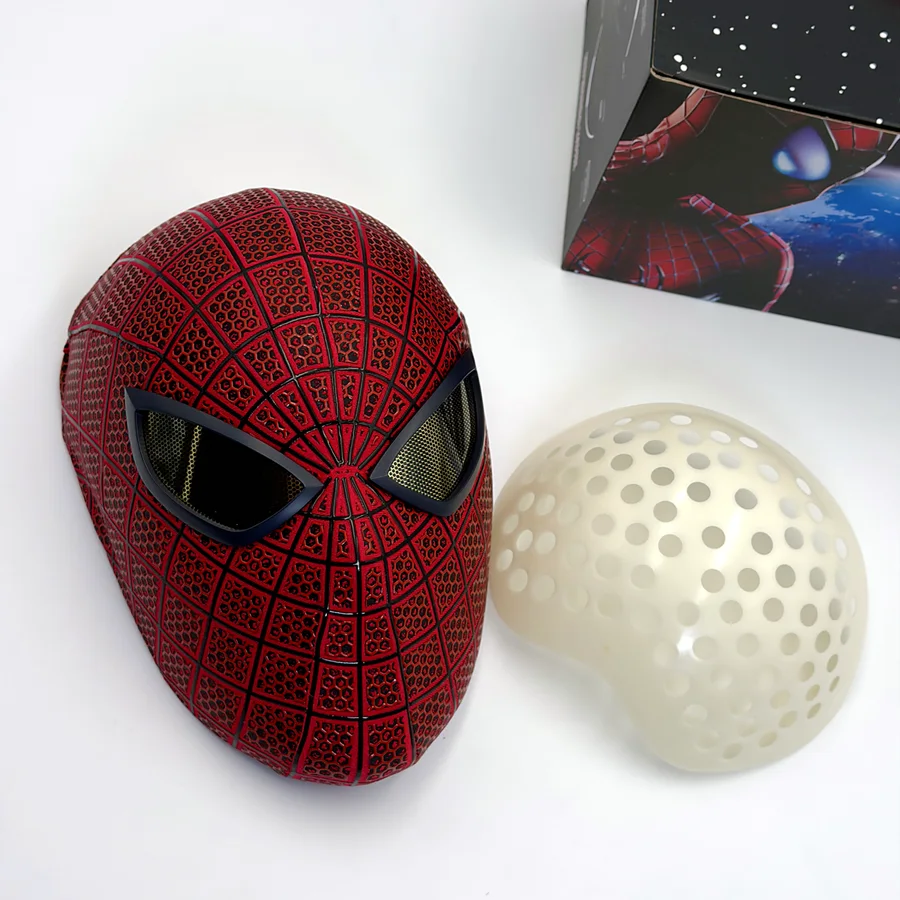
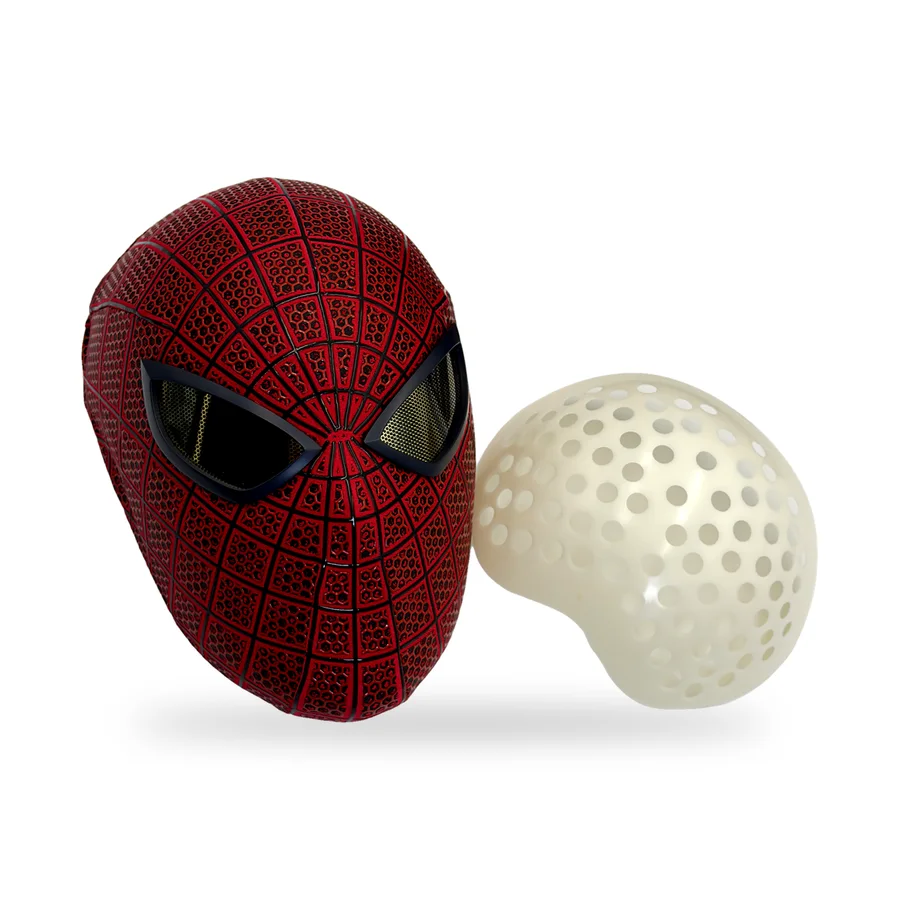
Fondo blanco uniforme y carrusel flotante (parte 1)

diff --git a/index.html b/index.html
@@ -45,7 +45,20 @@ button{font:inherit;color:inherit;cursor:pointer}
 
 /* ---------- Header ---------- */
 .top{position:sticky;top:env(safe-area-inset-top,0px);z-index:50;background:rgba(6,6,8,.86);backdrop-filter:blur(12px);-webkit-backdrop-filter:blur(12px);border-bottom:1px solid var(--line)}
-.announce{background:var(--red);color:#fff;text-align:center;font-family:var(--f-label);letter-spacing:.12em;text-transform:uppercase;font-size:.78rem;font-weight:600;padding-block:6px}
+.announce{background:#000;color:#fff;font-family:var(--f-label);letter-spacing:.12em;text-transform:uppercase;font-size:.8rem;font-weight:600;overflow:hidden;white-space:nowrap;border-bottom:2px solid var(--red);position:relative}
+.announce .track{display:inline-flex;align-items:center;animation:marq 32s linear infinite;will-change:transform}
+.announce:hover .track{animation-play-state:paused}
+.announce .grp{display:inline-flex;align-items:center;gap:22px;padding-right:22px;height:40px}
+.announce .sep{color:var(--red)}
+.announce .van{height:32px;width:auto;display:block;animation:bump .5s ease-in-out infinite alternate;filter:drop-shadow(0 3px 2px rgba(0,0,0,.6))}
+.announce .van.v2{animation-delay:.25s}
+.announce .road{display:inline-flex;align-items:flex-end;gap:2px;height:40px;padding-bottom:3px;position:relative}
+.announce .road::after{content:"";position:absolute;left:-6px;right:-6px;bottom:2px;height:2px;background:repeating-linear-gradient(90deg,#fff 0 8px,transparent 8px 14px);opacity:.35;animation:dash .6s linear infinite}
+.announce b{color:#fff;font-weight:700}
+@keyframes marq{to{transform:translateX(-50%)}}
+@keyframes bump{from{transform:translateY(0)}to{transform:translateY(-2px)}}
+@keyframes dash{to{background-position:-14px 0}}
+@media (prefers-reduced-motion:reduce){.announce .track,.announce .van,.announce .road::after{animation:none}}
 .bar{display:flex;align-items:center;gap:24px;padding-block:12px}
 .logo{display:flex;align-items:center;gap:10px;text-decoration:none;flex-shrink:0}
 .logo svg{width:38px;height:38px}
@@ -162,6 +175,25 @@ button{font:inherit;color:inherit;cursor:pointer}
 .qtone{aspect-ratio:1/1;border-radius:10px;padding:28px}
 .qtone .tn{font-size:3.2rem}
 @media (max-width:600px){.tone .tn{font-size:1.5rem}}
+
+/* Carrusel sin cuadros: Crocs flotando */
+.slide{background:none!important;border:0!important;box-shadow:none!important;overflow:visible;opacity:.28;display:flex;align-items:center;justify-content:center;cursor:pointer}
+.slide.on{opacity:1}
+.slide .spin{width:100%;transform-style:preserve-3d;animation:float 3.2s ease-in-out infinite}
+.slide .spin img{width:100%;height:auto;display:block;filter:drop-shadow(0 18px 24px rgba(0,0,0,.55));user-select:none;-webkit-user-drag:none}
+.slide.on .spin img{filter:drop-shadow(0 22px 30px rgba(229,18,47,.35)) drop-shadow(0 10px 16px rgba(0,0,0,.6))}
+.slide .spin.go{animation:spin360 1.4s cubic-bezier(.45,.05,.25,1)}
+.slide .shadow{position:absolute;left:15%;right:15%;bottom:14%;height:18px;border-radius:50%;background:radial-gradient(closest-side,rgba(0,0,0,.65),transparent);animation:shad 3.2s ease-in-out infinite}
+@keyframes float{0%,100%{transform:translateY(0)}50%{transform:translateY(-12px)}}
+@keyframes shad{0%,100%{transform:scaleX(1);opacity:.8}50%{transform:scaleX(.85);opacity:.5}}
+@keyframes spin360{from{transform:rotateY(0)}to{transform:rotateY(360deg)}}
+.feat-cap{position:relative;z-index:3;text-align:center;display:flex;flex-direction:column;align-items:center;gap:6px;padding-inline:16px;margin-top:-20px;min-height:120px}
+.feat-cap .label{color:var(--red)}
+.feat-cap h3{margin:0;font-family:var(--f-display);font-weight:900;text-transform:uppercase;font-size:clamp(1.4rem,3vw,2rem);line-height:1}
+.feat-cap .cap-row{display:flex;align-items:center;gap:16px;margin-top:4px}
+.feat-cap .tip{margin:2px 0 0;color:var(--mute);font-size:.8rem}
+@media (max-width:600px){.feat-cap h3{font-size:1.25rem;text-wrap:balance;max-width:78%}}
+@media (prefers-reduced-motion:reduce){.slide .spin,.slide .shadow{animation:none}}
 /* ---------- Trust strip ---------- */
 .trust{border-bottom:1px solid var(--line);background:var(--panel)}
 .trust .wrap{display:grid;grid-template-columns:repeat(3,minmax(0,1fr));gap:0}
@@ -275,7 +307,7 @@ footer button:hover{color:var(--fg)}
 <body>
 
 <div class="top">
-  <div class="announce">Envíos seguros a todo el Perú</div>
+  <div class="announce" role="region" aria-label="Envíos seguros a todo el Perú. Envío el mismo día o al siguiente. Provincias: Olva o Shalom. Lima: motorizado."><div class="track" aria-hidden="true"><span class="grp"><span class="road"><img class="van" src="shalom-van.webp" alt="" width="52" height="32"></span><b>Envíos seguros a todo el Perú</b><span class="sep">✦</span>Envío el mismo día o al siguiente<span class="sep">✦</span><span class="road"><img class="van v2" src="shalom-van.webp" alt="" width="52" height="32"></span>Provincias: Olva o Shalom<span class="sep">✦</span>Lima: motorizado<span class="sep">✦</span></span><span class="grp"><span class="road"><img class="van" src="shalom-van.webp" alt="" width="52" height="32"></span><b>Envíos seguros a todo el Perú</b><span class="sep">✦</span>Envío el mismo día o al siguiente<span class="sep">✦</span><span class="road"><img class="van v2" src="shalom-van.webp" alt="" width="52" height="32"></span>Provincias: Olva o Shalom<span class="sep">✦</span>Lima: motorizado<span class="sep">✦</span></span></div></div>
   <div class="wrap bar">
     <a class="logo" href="#inicio" aria-label="Spiderman Store, inicio">
       <svg viewBox="0 0 40 40" aria-hidden="true">
@@ -322,6 +354,7 @@ footer button:hover{color:var(--fg)}
     <div class="reflect"></div>
     <canvas id="shot" aria-hidden="true"></canvas>
   </div>
+  <div class="feat-cap" id="featCap" aria-live="polite"></div>
   <div class="ctrls" id="ctrls">
     <button class="arrow" id="prev" aria-label="Anterior"><svg width="18" height="18" viewBox="0 0 24 24" fill="none" stroke="currentColor" stroke-width="2.2"><path d="M15 5l-7 7 7 7"/></svg></button>
     <div class="dots" id="dots"></div>
@@ -450,45 +483,45 @@ const PRODUCTS = [
   /* ---------- CARROS ---------- */
   {id:"c1", cat:"carros", name:"Set Cars · Camión Mack y autos", price:489.95, info:"Caja de colección y bolsa de regalo", badge:"Set completo", imgs:["cars-set-1.webp","cars-set-2.webp","cars-set-3.webp","cars-set-4.webp"]},
   /* ---------- CROCS ---------- */
-  {id:"ks1", cat:"crocs", sizes:CROCS_SIZES, name:"Crocs Spider-Man · Black", price:319, info:CROCS_GIFT, badge:"Más vendido", imgs:["c-spiderman-black-1.webp", "c-spiderman-black-2.webp"]},
-  {id:"ks2", cat:"crocs", sizes:CROCS_SIZES, name:"Crocs Spider-Man · Red", price:319, info:CROCS_GIFT, badge:"Más vendido", imgs:["c-spiderman-red-3.webp", "c-spiderman-red-4.webp", "c-spiderman-red-2.webp", "c-spiderman-red-1.webp"]},
-  {id:"ks3", cat:"crocs", sizes:CROCS_SIZES, name:"Crocs Spider-Man · Marvel", price:null, imgs:["c-spiderman-marvel-1.webp", "c-spiderman-marvel-2.webp", "c-spiderman-marvel-3.webp", "c-spiderman-marvel-4.webp", "c-spiderman-marvel-5.webp"]},
-  {id:"k1", cat:"crocs", sizes:CROCS_SIZES, name:"Crocs x Cars · Rayo McQueen", price:239.9, old:280, info:CROCS_GIFT, imgs:["c-rayo-mcqueen-1.webp", "c-rayo-mcqueen-2.webp", "c-rayo-mcqueen-3.webp", "c-rayo-mcqueen-4.webp", "c-rayo-mcqueen-5.webp"]},
-  {id:"k2", cat:"crocs", sizes:CROCS_SIZES, name:"Crocs x Cars · Rayo McQueen Full Set", price:299, old:339, info:CROCS_GIFT, badge:"Con alerones y luces", imgs:["c-rayo-full-set-1.webp", "c-rayo-full-set-2.webp", "c-rayo-full-set-3.webp", "c-rayo-full-set-4.webp", "c-rayo-full-set-5.webp"]},
-  {id:"k4", cat:"crocs", sizes:CROCS_SIZES, name:"Crocs x Rayo McQueen · Kids", price:199.9, old:240, info:CROCS_GIFT, imgs:["c-rayo-mcqueen-1.webp", "c-rayo-mcqueen-2.webp", "c-rayo-mcqueen-3.webp", "c-rayo-mcqueen-4.webp", "c-rayo-mcqueen-5.webp"]},
-  {id:"k3", cat:"crocs", sizes:CROCS_SIZES, name:"Crocs x Cars · Tow Mate", price:240, old:279, info:CROCS_GIFT, imgs:["c-tow-mate-1.webp", "c-tow-mate-2.webp", "c-tow-mate-3.webp"]},
-  {id:"k5", cat:"crocs", sizes:CROCS_SIZES, name:"Crocs x Hello Kitty", price:269, old:320, info:CROCS_GIFT, imgs:["c-hello-kitty-1.webp", "c-hello-kitty-2.webp"]},
-  {id:"k6", cat:"crocs", sizes:CROCS_SIZES, name:"Crocs x Hello Kitty · Blanco", price:240, old:290, info:CROCS_GIFT, imgs:["c-hello-kitty-blanco-1.webp", "c-hello-kitty-blanco-2.webp", "c-hello-kitty-blanco-3.webp", "c-hello-kitty-blanco-4.webp"]},
-  {id:"k7", cat:"crocs", sizes:CROCS_SIZES, name:"Crocs x Los Simpsons · Krusty", price:279, old:340, info:CROCS_GIFT, imgs:["c-krusty-1.webp", "c-krusty-2.webp", "c-krusty-3.webp", "c-krusty-4.webp"]},
-  {id:"k8", cat:"crocs", sizes:CROCS_SIZES, name:"Crocs x Chucky", price:269, old:320, info:CROCS_GIFT, imgs:["c-chucky-1.webp", "c-chucky-2.webp", "c-chucky-3.webp", "c-chucky-4.webp"]},
-  {id:"k9", cat:"crocs", sizes:CROCS_SIZES, name:"Crocs x Súper Girls · Bombón", price:249, old:280, info:CROCS_GIFT, imgs:["c-bombon-1.webp", "c-bombon-2.webp", "c-bombon-3.webp"]},
-  {id:"k10", cat:"crocs", sizes:CROCS_SIZES, name:"Crocs x Lotso", price:255, old:289, info:CROCS_GIFT, imgs:["c-lotso-1.webp", "c-lotso-2.webp", "c-lotso-3.webp"]},
-  {id:"k11", cat:"crocs", sizes:CROCS_SIZES, name:"Crocs x Barbie", price:259, old:320, info:CROCS_GIFT, imgs:["c-barbie-1.webp", "c-barbie-2.webp", "c-barbie-3.webp", "c-barbie-4.webp"]},
-  {id:"k12", cat:"crocs", sizes:CROCS_SIZES, name:"Crocs x Demon Slayer · Inosuke", price:269, old:340, info:CROCS_GIFT, imgs:["c-inosuke-1.webp", "c-inosuke-2.webp", "c-inosuke-3.webp", "c-inosuke-4.webp", "c-inosuke-5.webp"]},
-  {id:"n1", cat:"crocs", sizes:CROCS_SIZES, name:"Crocs x Stranger Things", price:null, imgs:["c-stranger-things-1.webp", "c-stranger-things-2.webp", "c-stranger-things-3.webp", "c-stranger-things-4.webp", "c-stranger-things-5.webp"]},
-  {id:"n2", cat:"crocs", sizes:CROCS_SIZES, name:"Crocs x Star Wars · Darth Vader", price:null, imgs:["c-darth-vader-1.webp", "c-darth-vader-2.webp", "c-darth-vader-3.webp"]},
-  {id:"n3", cat:"crocs", sizes:CROCS_SIZES, name:"Crocs x Star Wars · Grogu", price:null, imgs:["c-grogu-1.webp", "c-grogu-2.webp"]},
-  {id:"n4", cat:"crocs", sizes:CROCS_SIZES, name:"Crocs x Batman", price:null, imgs:["c-batman-1.webp", "c-batman-2.webp", "c-batman-3.webp", "c-batman-4.webp"]},
-  {id:"n5", cat:"crocs", sizes:CROCS_SIZES, name:"Crocs x Toy Story · Buzz Lightyear", price:null, imgs:["c-buzz-1.webp", "c-buzz-2.webp", "c-buzz-3.webp"]},
-  {id:"n6", cat:"crocs", sizes:CROCS_SIZES, name:"Crocs x Monsters Inc · Mike Wazowski", price:null, imgs:["c-mike-wazowski-1.webp", "c-mike-wazowski-2.webp"]},
-  {id:"n7", cat:"crocs", sizes:CROCS_SIZES, name:"Crocs x Los Simpsons", price:null, imgs:["c-simpsons-1.webp", "c-simpsons-2.webp", "c-simpsons-3.webp"]},
-  {id:"n8", cat:"crocs", sizes:CROCS_SIZES, name:"Crocs x Bob Esponja", price:null, imgs:["c-bob-esponja-1.webp", "c-bob-esponja-2.webp"]},
-  {id:"n9", cat:"crocs", sizes:CROCS_SIZES, name:"Crocs x Bob Esponja · Patricio", price:null, imgs:["c-patricio-1.webp", "c-patricio-2.webp"]},
-  {id:"n10", cat:"crocs", sizes:CROCS_SIZES, name:"Crocs x Dragon Ball · Goku", price:null, imgs:["c-goku-1.webp", "c-goku-2.webp"]},
-  {id:"n11", cat:"crocs", sizes:CROCS_SIZES, name:"Crocs x Dragon Ball · Cell", price:null, imgs:["c-cell-1.webp", "c-cell-2.webp", "c-cell-3.webp"]},
-  {id:"n12", cat:"crocs", sizes:CROCS_SIZES, name:"Crocs x One Piece · Luffy", price:null, imgs:["c-luffy-1.webp", "c-luffy-2.webp"]},
-  {id:"n13", cat:"crocs", sizes:CROCS_SIZES, name:"Crocs x Naruto · Kakashi", price:null, imgs:["c-kakashi-1.webp", "c-kakashi-2.webp"]},
-  {id:"n14", cat:"crocs", sizes:CROCS_SIZES, name:"Crocs x Naruto · Akatsuki", price:null, imgs:["c-akatsuki-1.webp", "c-akatsuki-2.webp"]},
-  {id:"n15", cat:"crocs", sizes:CROCS_SIZES, name:"Crocs x Pokémon · Pikachu", price:null, imgs:["c-pikachu-1.webp", "c-pikachu-2.webp", "c-pikachu-3.webp"]},
-  {id:"n16", cat:"crocs", sizes:CROCS_SIZES, name:"Crocs x Pokémon · Charizard y Blastoise", price:null, imgs:["c-pokemon-1.webp"]},
-  {id:"n17", cat:"crocs", sizes:CROCS_SIZES, name:"Crocs x BAPE · Camo Negro", price:null, imgs:["c-bape-negro-1.webp", "c-bape-negro-2.webp"]},
-  {id:"n18", cat:"crocs", sizes:CROCS_SIZES, name:"Crocs x BAPE · Camo Azul", price:null, imgs:["c-bape-azul-1.webp"]},
-  {id:"n19", cat:"crocs", sizes:CROCS_SIZES, name:"Crocs x BAPE · Camo Rosado", price:null, imgs:["c-bape-rosado-1.webp", "c-bape-rosado-2.webp"]},
-  {id:"n20", cat:"crocs", sizes:CROCS_SIZES, name:"Crocs x BAPE · Camo Morado", price:null, imgs:["c-bape-morado-1.webp", "c-bape-morado-2.webp", "c-bape-morado-3.webp", "c-bape-morado-4.webp"]},
-  {id:"n21", cat:"crocs", sizes:CROCS_SIZES, name:"Crocs x BAPE · Camo Verde", price:null, imgs:["c-bape-verde-1.webp"]},
-  {id:"n22", cat:"crocs", sizes:CROCS_SIZES, name:"Crocs x Sanrio · Rosado", price:null, imgs:["c-sanrio-rosado-1.webp", "c-sanrio-rosado-2.webp"]},
-  {id:"n23", cat:"crocs", sizes:CROCS_SIZES, name:"Crocs Crocband · Negro", price:null, imgs:["c-crocband-negro-1.webp", "c-crocband-negro-2.webp", "c-crocband-negro-3.webp"]},
-  {id:"n24", cat:"crocs", sizes:CROCS_SIZES, name:"Crocs Crocband · Blanco", price:null, imgs:["c-crocband-blanco-1.webp", "c-crocband-blanco-2.webp", "c-crocband-blanco-3.webp"]}
+  {id:"ks1", cat:"crocs", sizes:CROCS_SIZES, name:"Crocs Spider-Man · Black", price:319, info:CROCS_GIFT, badge:"Más vendido", imgs:["w-spiderman-black-1.webp"]},
+  {id:"ks2", cat:"crocs", sizes:CROCS_SIZES, name:"Crocs Spider-Man · Red", price:319, info:CROCS_GIFT, badge:"Más vendido", imgs:["w-spiderman-red-3.webp", "w-spiderman-red-4.webp", "w-spiderman-red-2.webp", "w-spiderman-red-1.webp"]},
+  {id:"ks3", cat:"crocs", sizes:CROCS_SIZES, name:"Crocs Spider-Man · Marvel", price:null, imgs:["w-spiderman-marvel-1.webp", "w-spiderman-marvel-2.webp", "w-spiderman-marvel-3.webp", "w-spiderman-marvel-4.webp", "w-spiderman-marvel-5.webp"]},
+  {id:"k1", cat:"crocs", sizes:CROCS_SIZES, name:"Crocs x Cars · Rayo McQueen", price:239.9, old:280, info:CROCS_GIFT, imgs:["w-rayo-mcqueen-1.webp", "w-rayo-mcqueen-2.webp", "w-rayo-mcqueen-3.webp", "w-rayo-mcqueen-4.webp", "w-rayo-mcqueen-5.webp"]},
+  {id:"k2", cat:"crocs", sizes:CROCS_SIZES, name:"Crocs x Cars · Rayo McQueen Full Set", price:299, old:339, info:CROCS_GIFT, badge:"Con alerones y luces", imgs:["w-rayo-full-set-1.webp", "w-rayo-full-set-2.webp", "w-rayo-full-set-3.webp", "w-rayo-full-set-4.webp", "w-rayo-full-set-5.webp"]},
+  {id:"k4", cat:"crocs", sizes:CROCS_SIZES, name:"Crocs x Rayo McQueen · Kids", price:199.9, old:240, info:CROCS_GIFT, imgs:["w-rayo-mcqueen-1.webp", "w-rayo-mcqueen-2.webp", "w-rayo-mcqueen-3.webp", "w-rayo-mcqueen-4.webp", "w-rayo-mcqueen-5.webp"]},
+  {id:"k3", cat:"crocs", sizes:CROCS_SIZES, name:"Crocs x Cars · Tow Mate", price:240, old:279, info:CROCS_GIFT, imgs:["w-tow-mate-1.webp", "w-tow-mate-2.webp", "w-tow-mate-3.webp"]},
+  {id:"k5", cat:"crocs", sizes:CROCS_SIZES, name:"Crocs x Hello Kitty", price:269, old:320, info:CROCS_GIFT, imgs:["w-hello-kitty-1.webp", "w-hello-kitty-2.webp"]},
+  {id:"k6", cat:"crocs", sizes:CROCS_SIZES, name:"Crocs x Hello Kitty · Blanco", price:240, old:290, info:CROCS_GIFT, imgs:["w-hello-kitty-blanco-1.webp", "w-hello-kitty-blanco-2.webp", "w-hello-kitty-blanco-3.webp", "w-hello-kitty-blanco-4.webp"]},
+  {id:"k7", cat:"crocs", sizes:CROCS_SIZES, name:"Crocs x Los Simpsons · Krusty", price:279, old:340, info:CROCS_GIFT, imgs:["w-krusty-4.webp", "w-krusty-2.webp"]},
+  {id:"k8", cat:"crocs", sizes:CROCS_SIZES, name:"Crocs x Chucky", price:269, old:320, info:CROCS_GIFT, imgs:["w-chucky-1.webp", "w-chucky-2.webp", "w-chucky-3.webp", "w-chucky-4.webp"]},
+  {id:"k9", cat:"crocs", sizes:CROCS_SIZES, name:"Crocs x Súper Girls · Bombón", price:249, old:280, info:CROCS_GIFT, imgs:["w-bombon-1.webp", "w-bombon-2.webp", "w-bombon-3.webp"]},
+  {id:"k10", cat:"crocs", sizes:CROCS_SIZES, name:"Crocs x Lotso", price:255, old:289, info:CROCS_GIFT, imgs:["w-lotso-1.webp", "w-lotso-2.webp", "w-lotso-3.webp"]},
+  {id:"k11", cat:"crocs", sizes:CROCS_SIZES, name:"Crocs x Barbie", price:259, old:320, info:CROCS_GIFT, imgs:["w-barbie-1.webp", "w-barbie-2.webp", "w-barbie-3.webp", "w-barbie-4.webp"]},
+  {id:"k12", cat:"crocs", sizes:CROCS_SIZES, name:"Crocs x Demon Slayer · Inosuke", price:269, old:340, info:CROCS_GIFT, imgs:["w-inosuke-1.webp", "w-inosuke-2.webp", "w-inosuke-3.webp", "w-inosuke-4.webp", "w-inosuke-5.webp"]},
+  {id:"n1", cat:"crocs", sizes:CROCS_SIZES, name:"Crocs x Stranger Things", price:null, imgs:["w-stranger-things-1.webp", "w-stranger-things-2.webp", "w-stranger-things-3.webp", "w-stranger-things-4.webp", "w-stranger-things-5.webp"]},
+  {id:"n2", cat:"crocs", sizes:CROCS_SIZES, name:"Crocs x Star Wars · Darth Vader", price:null, imgs:["w-darth-vader-1.webp", "w-darth-vader-2.webp", "w-darth-vader-3.webp"]},
+  {id:"n3", cat:"crocs", sizes:CROCS_SIZES, name:"Crocs x Star Wars · Grogu", price:null, imgs:["w-grogu-1.webp", "w-grogu-2.webp"]},
+  {id:"n4", cat:"crocs", sizes:CROCS_SIZES, name:"Crocs x Batman", price:null, imgs:["w-batman-1.webp", "w-batman-2.webp", "w-batman-3.webp", "w-batman-4.webp"]},
+  {id:"n5", cat:"crocs", sizes:CROCS_SIZES, name:"Crocs x Toy Story · Buzz Lightyear", price:null, imgs:["w-buzz-1.webp", "w-buzz-2.webp", "w-buzz-3.webp"]},
+  {id:"n6", cat:"crocs", sizes:CROCS_SIZES, name:"Crocs x Monsters Inc · Mike Wazowski", price:null, imgs:["w-mike-wazowski-1.webp", "w-mike-wazowski-2.webp"]},
+  {id:"n7", cat:"crocs", sizes:CROCS_SIZES, name:"Crocs x Los Simpsons", price:null, imgs:["w-simpsons-1.webp", "w-simpsons-2.webp", "w-simpsons-3.webp"]},
+  {id:"n8", cat:"crocs", sizes:CROCS_SIZES, name:"Crocs x Bob Esponja", price:null, imgs:["w-bob-esponja-1.webp", "w-bob-esponja-2.webp"]},
+  {id:"n9", cat:"crocs", sizes:CROCS_SIZES, name:"Crocs x Bob Esponja · Patricio", price:null, imgs:["w-patricio-1.webp", "w-patricio-2.webp"]},
+  {id:"n10", cat:"crocs", sizes:CROCS_SIZES, name:"Crocs x Dragon Ball · Goku", price:null, imgs:["w-goku-1.webp", "w-goku-2.webp"]},
+  {id:"n11", cat:"crocs", sizes:CROCS_SIZES, name:"Crocs x Dragon Ball · Cell", price:null, imgs:["w-cell-3.webp"]},
+  {id:"n12", cat:"crocs", sizes:CROCS_SIZES, name:"Crocs x One Piece · Luffy", price:null, imgs:["w-luffy-1.webp", "w-luffy-2.webp"]},
+  {id:"n13", cat:"crocs", sizes:CROCS_SIZES, name:"Crocs x Naruto · Kakashi", price:null, imgs:["w-kakashi-1.webp", "w-kakashi-2.webp"]},
+  {id:"n14", cat:"crocs", sizes:CROCS_SIZES, name:"Crocs x Naruto · Akatsuki", price:null, imgs:["w-akatsuki-1.webp", "w-akatsuki-2.webp"]},
+  {id:"n15", cat:"crocs", sizes:CROCS_SIZES, name:"Crocs x Pokémon · Pikachu", price:null, imgs:["w-pikachu-1.webp", "w-pikachu-2.webp", "w-pikachu-3.webp"]},
+  {id:"n16", cat:"crocs", sizes:CROCS_SIZES, name:"Crocs x Pokémon · Charizard y Blastoise", price:null, imgs:["w-pokemon-1.webp"]},
+  {id:"n17", cat:"crocs", sizes:CROCS_SIZES, name:"Crocs x BAPE · Camo Negro", price:null, imgs:["w-bape-negro-1.webp", "w-bape-negro-2.webp"]},
+  {id:"n18", cat:"crocs", sizes:CROCS_SIZES, name:"Crocs x BAPE · Camo Azul", price:null, imgs:["w-bape-azul-1.webp"]},
+  {id:"n19", cat:"crocs", sizes:CROCS_SIZES, name:"Crocs x BAPE · Camo Rosado", price:null, imgs:["w-bape-rosado-1.webp", "w-bape-rosado-2.webp"]},
+  {id:"n20", cat:"crocs", sizes:CROCS_SIZES, name:"Crocs x BAPE · Camo Morado", price:null, imgs:["w-bape-morado-1.webp", "w-bape-morado-2.webp", "w-bape-morado-3.webp", "w-bape-morado-4.webp"]},
+  {id:"n21", cat:"crocs", sizes:CROCS_SIZES, name:"Crocs x BAPE · Camo Verde", price:null, imgs:["w-bape-verde-1.webp"]},
+  {id:"n22", cat:"crocs", sizes:CROCS_SIZES, name:"Crocs x Sanrio · Rosado", price:null, imgs:["w-sanrio-rosado-1.webp", "w-sanrio-rosado-2.webp"]},
+  {id:"n23", cat:"crocs", sizes:CROCS_SIZES, name:"Crocs Crocband · Negro", price:null, imgs:["w-crocband-negro-1.webp", "w-crocband-negro-2.webp", "w-crocband-negro-3.webp"]},
+  {id:"n24", cat:"crocs", sizes:CROCS_SIZES, name:"Crocs Crocband · Blanco", price:null, imgs:["w-crocband-blanco-1.webp", "w-crocband-blanco-2.webp", "w-crocband-blanco-3.webp"]}
 ];
 
 /* Carrusel 3D: solo Crocs, primero las Spider-Man black y red */
@@ -557,18 +590,14 @@ const N = feat.length, STEP = 360/N;
 let cur = 0, timer = null, paused = false;
 ring.innerHTML = feat.map((p,i)=>`
   <article class="slide" data-i="${i}" aria-label="${esc(p.name)}">
-    ${photo(p)}
-    <div class="info">
-      <span class="label">${catName(p.cat)}</span>
-      <h3>${esc(p.name)}</h3>
-      <div class="row"><span class="price">${priceHTML(p)}</span>
-      <button class="add" data-view="${p.id}">Ver</button></div>
-    </div>
+    <div class="spin"><img src="cut-${p.id}.webp" alt="${esc(p.name)}" draggable="false"></div>
+    <div class="shadow"></div>
   </article>`).join("");
+const capEl=$("#featCap");
 dotsEl.innerHTML = feat.map((p,i)=>`<button aria-label="Ir a ${esc(p.name)}" data-d="${i}"></button>`).join("");
 
 function layout(){
-  const w = innerWidth < 600 ? 190 : 250;
+  const w = innerWidth < 600 ? 250 : 360;
   ring.style.setProperty("--cw", w+"px");
   const radius = Math.round((w/2) / Math.tan(Math.PI/N)) + (innerWidth<600 ? 20 : 60);
   ring.dataset.r = radius;
@@ -636,10 +665,12 @@ function spin(){
   ring.style.transform = `translateZ(${-ring.dataset.r}px) rotateY(${-cur*STEP}deg)`;
   const idx = ((cur % N) + N) % N;
   [...ring.children].forEach((s,i)=> s.classList.toggle("on", i===idx));
+  if (typeof capEl!=="undefined" && capEl){ const p=feat[idx]; capEl.innerHTML=`<span class="label">${catName(p.cat)}</span><h3>${esc(p.name)}</h3><div class="cap-row"><span class="price">${priceHTML(p)}</span><button class="add" data-view="${p.id}">Ver producto</button></div><p class="tip">Toca la Croc para girarla 360°</p>`; }
   [...dotsEl.children].forEach((d,i)=>{ d.classList.remove("on"); if(i===idx){ void d.offsetWidth; d.classList.add("on"); } });
 }
 function go(n){ cur = n; spin(); restart(); }
 function restart(){ clearInterval(timer); timer = setInterval(()=>{ if(!paused){ cur++; spin(); } }, 5000); }
+$("#featCap").addEventListener("click",e=>{ const v=e.target.closest("[data-view]"); if(v) openQuick(v.dataset.view); });
 $("#prev").onclick = ()=> go(cur-1);
 $("#next").onclick = ()=> go(cur+1);
 dotsEl.onclick = e => { const d = e.target.closest("[data-d]"); if(!d) return; const target = +d.dataset.d, idx=((cur%N)+N)%N; let diff = target-idx; if(diff>N/2)diff-=N; if(diff<-N/2)diff+=N; go(cur+diff); };
@@ -653,7 +684,9 @@ ring.addEventListener("click",e=>{
   const v = e.target.closest("[data-view]");
   if (v){ openQuick(v.dataset.view); return; }
   const s = e.target.closest(".slide"); if(!s) return;
-  const target = +s.dataset.i, idx=((cur%N)+N)%N; let diff=target-idx; if(diff>N/2)diff-=N; if(diff<-N/2)diff+=N; if(diff) go(cur+diff);
+  const target = +s.dataset.i, idx=((cur%N)+N)%N; let diff=target-idx; if(diff>N/2)diff-=N; if(diff<-N/2)diff+=N;
+  if(diff){ go(cur+diff); return; }
+  const sp=s.querySelector(".spin"); sp.classList.remove("go"); void sp.offsetWidth; sp.classList.add("go"); restart();
 });
 addEventListener("resize", layout);
 layout(); restart();
